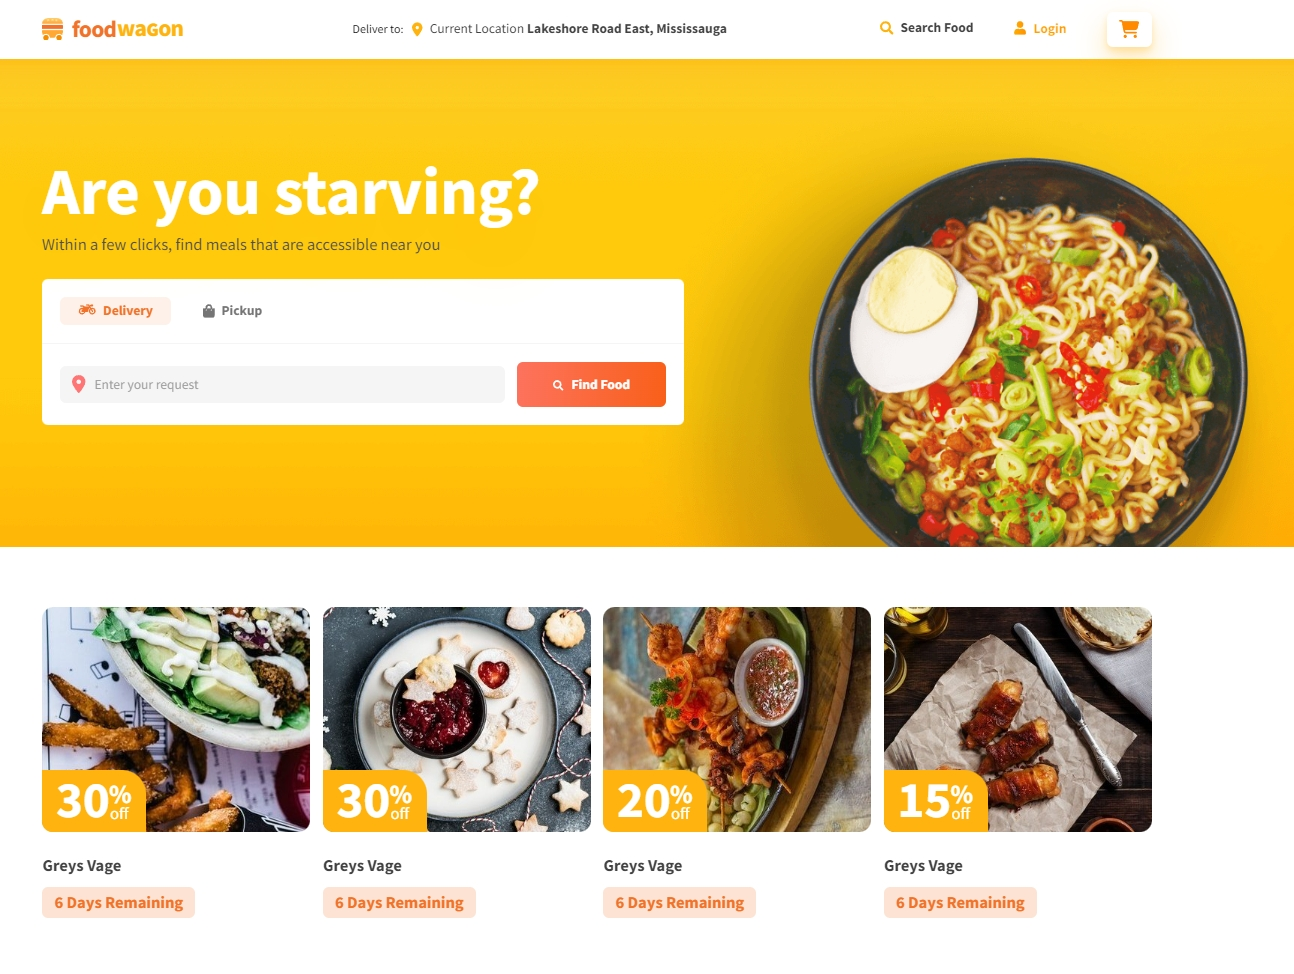
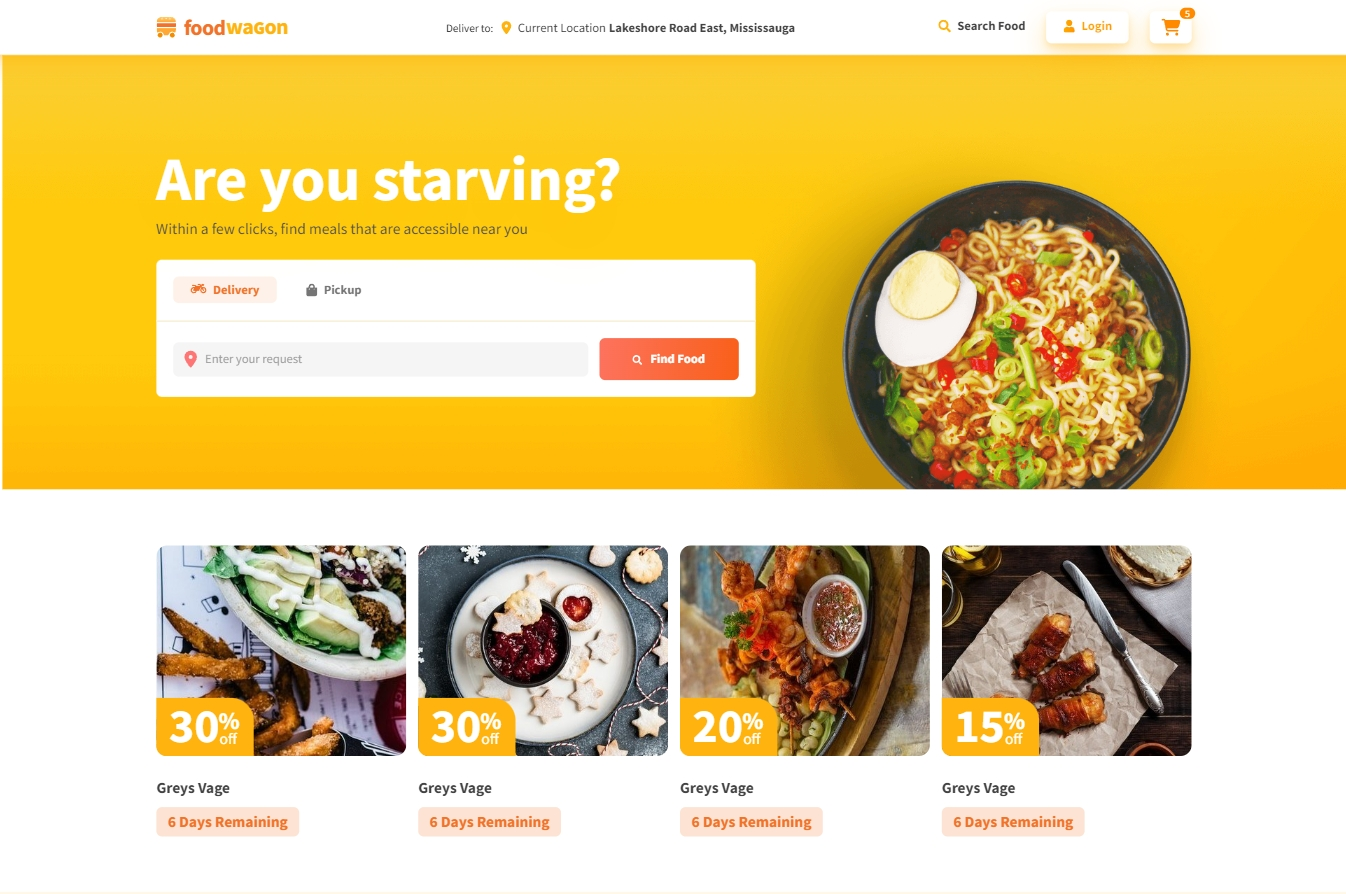
fixed bug in FindFood

diff --git a/src/components/elements/FindFood/findFood.module.scss b/src/components/elements/FindFood/findFood.module.scss
@@ -3,9 +3,8 @@
 .findFoodWrapper {
   background-image: url('../../../../public/images/find-food/background.png');
   background-repeat: no-repeat;
-  background-position: center;
-  background-size: cover;
-
+  background-position: 50% 100%;
+  
   padding: 210px 0 132px 0;
 }
 
@@ -23,7 +22,7 @@
   }
 
   &__search {
-    margin-bottom: 30px;
+    // margin-bottom: 30px;
   }
 
   &__text {
